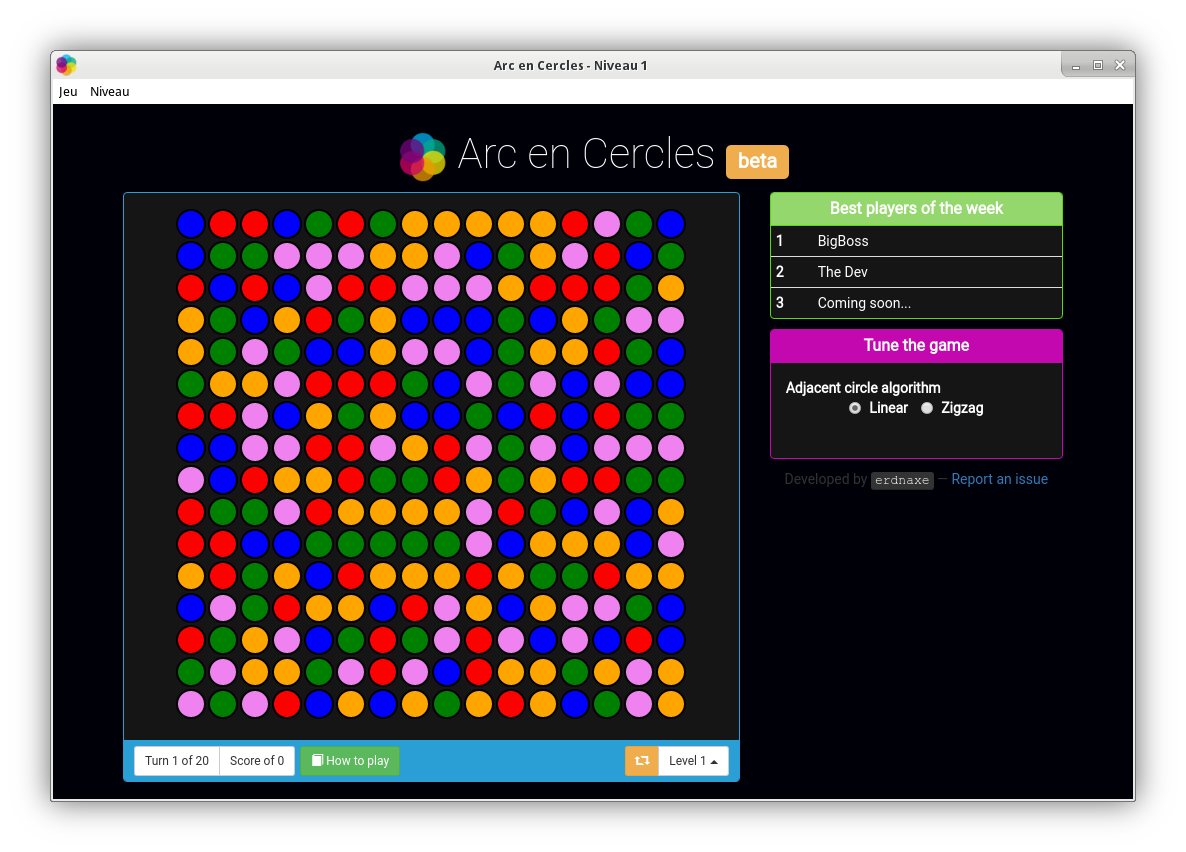
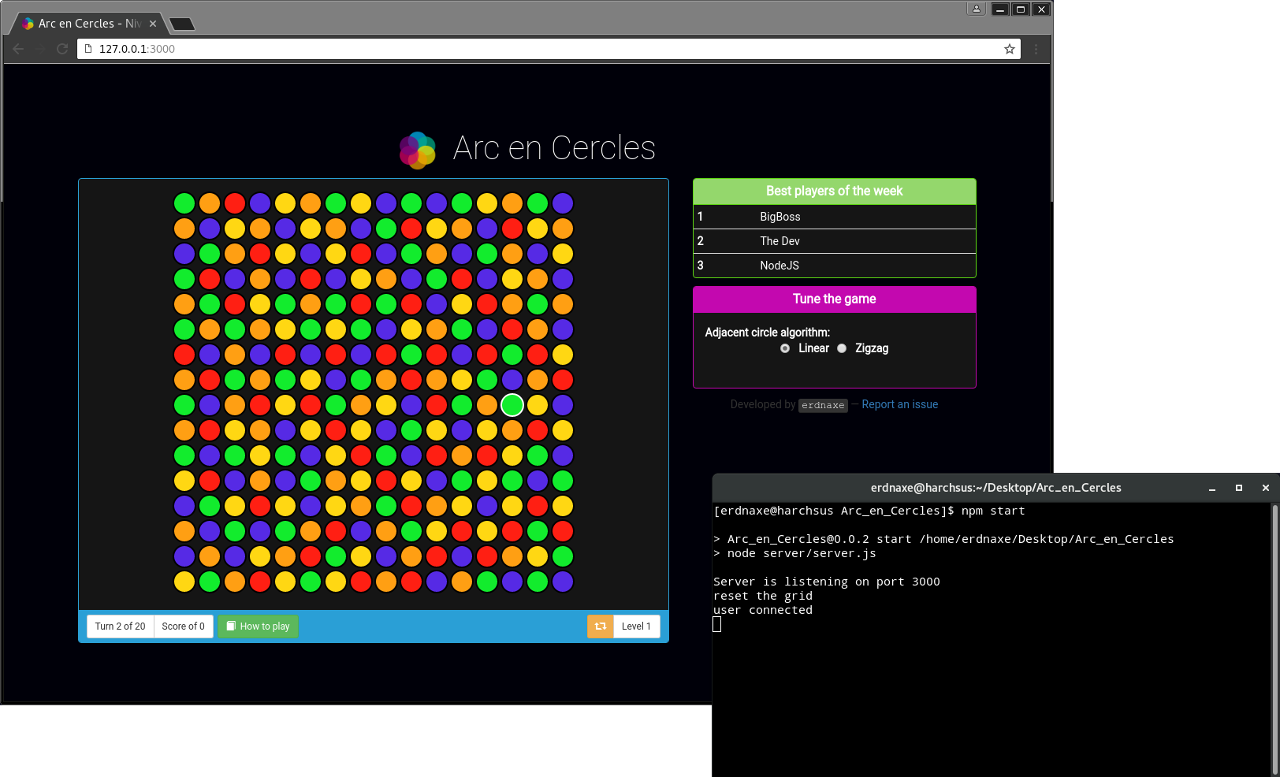
Updated README

diff --git a/README.md b/README.md
@@ -1,33 +1,30 @@
 # Arc en Cercles
 
-Arc en Cercles is a Open-Source game. It can run in a web browser or in a NW.js windows (Windows, Mac and Linux).
+Arc en Cercles is a Open-Source game. It uses a server with nodejs and a web browser as a client.
 
-Actually, it's in alpha because some algo parts need to be written.
+Actually, the game is playable but a lot of things is happening in backend to implement a neural-network and a genetic algorithm (yeh !).
 
 ![alt tag](https://raw.githubusercontent.com/erdnaxe/Arc_en_Cercles/master/docs/demo.png)
 
 ## Features
 
+- Server side algorithm: no cheating and scoreboard management.
 - Different level of difficulty.
 
 And much more!
 
-## Supported Platforms
+## How to build and host a server
 
-- Windows
-- Mac
-- Linux
-- Window Phone, Android and IOS
-
-## How to build
-
-You can use [NW.js](http://nwjs.io/) to build a native app.
+You need to have nodejs with npm on your machine.
 
 * Clone the project, go to the project directory.
-* Build and launch the app with NW.js : `nw .` or open **index.html** in a web browser.
+* Download dependencies : `npm install`
+* Launch the server : `npm start`
+* The server will be availiable on `http://localhost:3000/`
 
 ## Author
 
 - [Alexandre IOOSS](https://github.com/erdnaxe)
 
 Original game created for a baccalaureat project (ISN).
+
